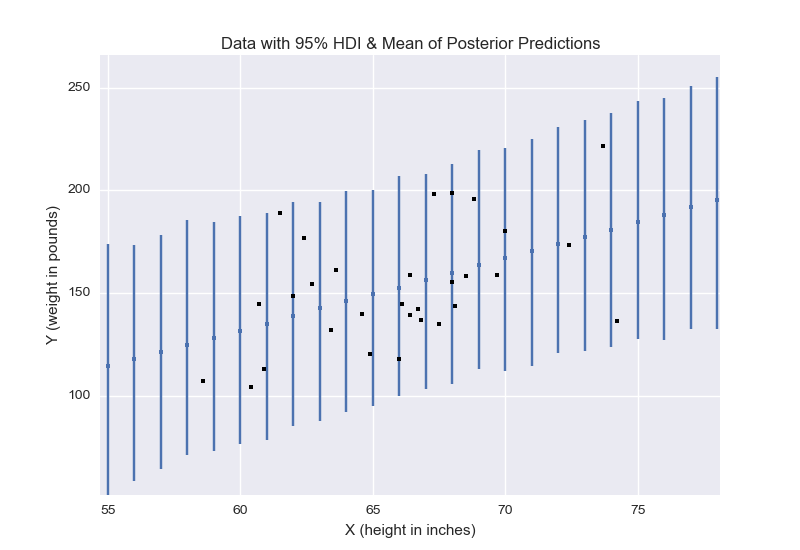
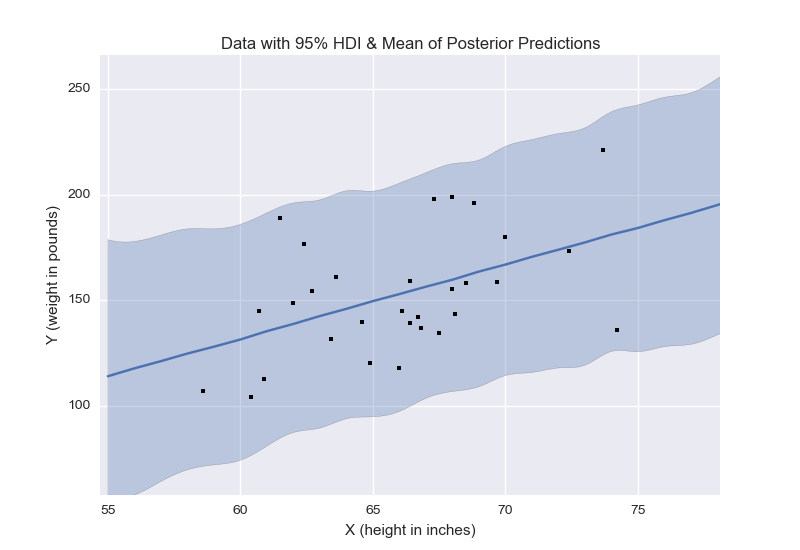
change HDI representation

diff --git a/16_SimpleLinearRegressionPyMC.py b/16_SimpleLinearRegressionPyMC.py
@@ -6,6 +6,7 @@ from __future__ import division
 import numpy as np
 import pymc as pm
 from scipy.stats import norm
+from scipy.interpolate import spline
 import matplotlib.pyplot as plt
 from plot_post import plot_post
 from hpd import *
@@ -148,9 +149,17 @@ plt.ylabel('Y (weight in pounds)')
 plt.title('Data with 95% HDI & Mean of Posterior Predictions')
 # Superimpose posterior predicted 95% HDIs:
 y_post_pred_ave = np.average(y_post_pred, axis=1)
-plt.errorbar(x_post_pred,y_post_pred_ave, 
-             yerr=[y_post_pred_ave-y_HDI_lim[:,0],
-                   y_HDI_lim[:,1]-y_post_pred_ave], fmt='.')
+#Book version of the HDI representation
+#plt.errorbar(x_post_pred,y_post_pred_ave, 
+#             yerr=[abs(y_HDI_lim[:,0]-y_post_pred_ave),
+#                   abs(y_HDI_lim[:,1]-y_post_pred_ave)], fmt='.')
+
+#Smoothed version of the HDI representation
+x_new = np.linspace(x_post_pred.min(), x_post_pred.max(), 200)
+y_HDI_lim_smooth = spline(x_post_pred, y_HDI_lim, x_new)
+plt.plot(x_post_pred, y_post_pred_ave)
+plt.fill_between(x_new, y_HDI_lim_smooth[:,0], y_HDI_lim_smooth[:,1], alpha=0.3)
+
 plt.savefig('Figure_16.6.png')
 
 plt.show()
